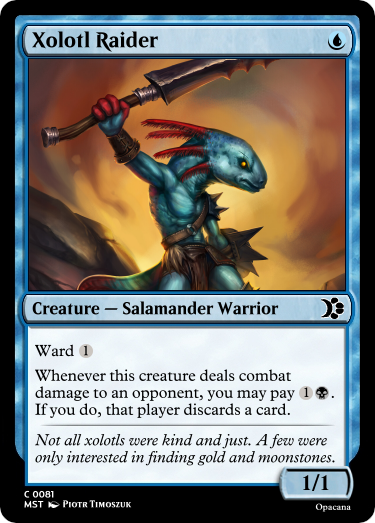
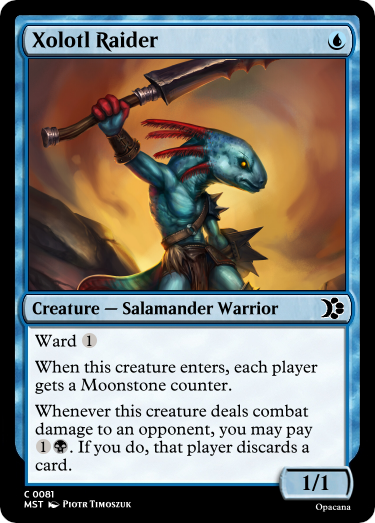
April13th2026Update

Changed region(s): [[0.088, 0.6424, 0.88, 0.9178]]

diff --git a/previews/MST.html b/previews/MST.html
@@ -277,12 +277,12 @@
 				<div class="container"><img loading="lazy" alt="sets\MST-files\img\110_Nourishing Misery.png" id="MST_110_Nourishing Misery" data-flag="@X" onclick="openSidebar('MST_110_Nourishing Misery',false)"></div>
 				<div class="container"><img loading="lazy" alt="sets\MST-files\img\143_In the Presence of Greatness.png" id="MST_143_In the Presence of Greatness" data-flag="@X" onclick="openSidebar('MST_143_In the Presence of Greatness',false)"></div>
 				<div class="container"><img loading="lazy" alt="sets\MST-files\img\190_Seeker of Strength.png" id="MST_190_Seeker of Strength" data-flag="@X" onclick="openSidebar('MST_190_Seeker of Strength',false)"></div>
-				<div class="container"><img loading="lazy" alt="sets\MST-files\img\27_Rest in Peace.png" id="MST_27_Rest in Peace" data-flag="@X" onclick="openSidebar('MST_27_Rest in Peace',false)"></div>
+				<div class="container"><img loading="lazy" alt="sets\MST-files\img\30_Rouser Elder.png" id="MST_30_Rouser Elder" data-flag="@X" onclick="openSidebar('MST_30_Rouser Elder',false)"></div>
 				<div class="container"><img loading="lazy" alt="sets\MST-files\img\72_Supercell Channeler.png" id="MST_72_Supercell Channeler" data-flag="@X" onclick="openSidebar('MST_72_Supercell Channeler',false)"></div>
 				<div class="container"><img loading="lazy" alt="sets\MST-files\img\113_Power from Pain.png" id="MST_113_Power from Pain" data-flag="@X" onclick="openSidebar('MST_113_Power from Pain',false)"></div>
 				<div class="container"><img loading="lazy" alt="sets\MST-files\img\146_Longsight Siege Brother.png" id="MST_146_Longsight Siege Brother" data-flag="@X" onclick="openSidebar('MST_146_Longsight Siege Brother',false)"></div>
 				<div class="container"><img loading="lazy" alt="sets\MST-files\img\195_Starshine Charms.png" id="MST_195_Starshine Charms" data-flag="@X" onclick="openSidebar('MST_195_Starshine Charms',false)"></div>
-				<div class="container"><img loading="lazy" alt="sets\MST-files\img\31_Rouser Elder.png" id="MST_31_Rouser Elder" data-flag="@X" onclick="openSidebar('MST_31_Rouser Elder',false)"></div>
+				<div class="container"><img loading="lazy" alt="sets\MST-files\img\31_Ruminations Over Rubble.png" id="MST_31_Ruminations Over Rubble" data-flag="@X" onclick="openSidebar('MST_31_Ruminations Over Rubble',false)"></div>
 				<div class="container"><img loading="lazy" alt="sets\MST-files\img\74_Titanic Rudan.png" id="MST_74_Titanic Rudan" data-flag="@X" onclick="openSidebar('MST_74_Titanic Rudan',false)"></div>
 				<div class="container"><img loading="lazy" alt="sets\MST-files\img\116_Return to Instinct.png" id="MST_116_Return to Instinct" data-flag="@X" onclick="openSidebar('MST_116_Return to Instinct',false)"></div>
 				<div class="container"><img loading="lazy" alt="sets\MST-files\img\148_Moonrise Bravado.png" id="MST_148_Moonrise Bravado" data-flag="@X" onclick="openSidebar('MST_148_Moonrise Bravado',false)"></div>
@@ -327,12 +327,12 @@
 				<div class="container"><img loading="lazy" alt="sets\MST-files\img\99_Hermit of Erud Swamp.png" id="MST_99_Hermit of Erud Swamp" data-flag="@X" onclick="openSidebar('MST_99_Hermit of Erud Swamp',false)"></div>
 				<div class="container"><img loading="lazy" alt="sets\MST-files\img\151_Phoenix Mantle.png" id="MST_151_Phoenix Mantle" data-flag="@X" onclick="openSidebar('MST_151_Phoenix Mantle',false)"></div>
 				<div class="container"><img loading="lazy" alt="sets\MST-files\img\182_The Life of an Epicure.png" id="MST_182_The Life of an Epicure" data-flag="@X" onclick="openSidebar('MST_182_The Life of an Epicure',false)"></div>
-				<div class="container"><img loading="lazy" alt="sets\MST-files\img\28_Rewoven Fates.png" id="MST_28_Rewoven Fates" data-flag="@X" onclick="openSidebar('MST_28_Rewoven Fates',false)"></div>
+				<div class="container"><img loading="lazy" alt="sets\MST-files\img\27_Rewoven Fates.png" id="MST_27_Rewoven Fates" data-flag="@X" onclick="openSidebar('MST_27_Rewoven Fates',false)"></div>
 				<div class="container"><img loading="lazy" alt="sets\MST-files\img\70_Stormwind Master.png" id="MST_70_Stormwind Master" data-flag="@X" onclick="openSidebar('MST_70_Stormwind Master',false)"></div>
 				<div class="container"><img loading="lazy" alt="sets\MST-files\img\103_Iron Empire Elite.png" id="MST_103_Iron Empire Elite" data-flag="@X" onclick="openSidebar('MST_103_Iron Empire Elite',false)"></div>
 				<div class="container"><img loading="lazy" alt="sets\MST-files\img\153_Priest of Primordial Fire.png" id="MST_153_Priest of Primordial Fire" data-flag="@X" onclick="openSidebar('MST_153_Priest of Primordial Fire',false)"></div>
 				<div class="container"><img loading="lazy" alt="sets\MST-files\img\184_Matriarch of Ancient Ways.png" id="MST_184_Matriarch of Ancient Ways" data-flag="@X" onclick="openSidebar('MST_184_Matriarch of Ancient Ways',false)"></div>
-				<div class="container"><img loading="lazy" alt="sets\MST-files\img\30_Rooftop Pouncer.png" id="MST_30_Rooftop Pouncer" data-flag="@X" onclick="openSidebar('MST_30_Rooftop Pouncer',false)"></div>
+				<div class="container"><img loading="lazy" alt="sets\MST-files\img\29_Rooftop Pouncer.png" id="MST_29_Rooftop Pouncer" data-flag="@X" onclick="openSidebar('MST_29_Rooftop Pouncer',false)"></div>
 				<div class="container"><img loading="lazy" alt="sets\MST-files\img\71_Summon the Soulchasers.png" id="MST_71_Summon the Soulchasers" data-flag="@X" onclick="openSidebar('MST_71_Summon the Soulchasers',false)"></div>
 				<div class="container"><img loading="lazy" alt="sets\MST-files\img\108_Necromancer's Whim.png" id="MST_108_Necromancers Whim" data-flag="@X" onclick="openSidebar('MST_108_Necromancers Whim',false)"></div>
 				<div class="container"><img loading="lazy" alt="sets\MST-files\img\154_Psychic Enslavement.png" id="MST_154_Psychic Enslavement" data-flag="@X" onclick="openSidebar('MST_154_Psychic Enslavement',false)"></div>
@@ -417,7 +417,7 @@
 				<div class="container"><img loading="lazy" alt="sets\MST-files\img\107_Moonwarped Beast.png" id="MST_107_Moonwarped Beast" data-flag="@X" onclick="openSidebar('MST_107_Moonwarped Beast',false)"></div>
 				<div class="container"><img loading="lazy" alt="sets\MST-files\img\149_Mountain Miner.png" id="MST_149_Mountain Miner" data-flag="@X" onclick="openSidebar('MST_149_Mountain Miner',false)"></div>
 				<div class="container"><img loading="lazy" alt="sets\MST-files\img\192_Sika Matriarch.png" id="MST_192_Sika Matriarch" data-flag="@X" onclick="openSidebar('MST_192_Sika Matriarch',false)"></div>
-				<div class="container"><img loading="lazy" alt="sets\MST-files\img\29_Ring of Assurance.png" id="MST_29_Ring of Assurance" data-flag="@X" onclick="openSidebar('MST_29_Ring of Assurance',false)"></div>
+				<div class="container"><img loading="lazy" alt="sets\MST-files\img\28_Ring of Assurance.png" id="MST_28_Ring of Assurance" data-flag="@X" onclick="openSidebar('MST_28_Ring of Assurance',false)"></div>
 				<div class="container"><img loading="lazy" alt="sets\MST-files\img\67_Selaki Stormrider.png" id="MST_67_Selaki Stormrider" data-flag="@X" onclick="openSidebar('MST_67_Selaki Stormrider',false)"></div>
 				<div class="container"><img loading="lazy" alt="sets\MST-files\img\112_Play Dead.png" id="MST_112_Play Dead" data-flag="@X" onclick="openSidebar('MST_112_Play Dead',false)"></div>
 				<div class="container"><img loading="lazy" alt="sets\MST-files\img\152_Prepared Fortress Guard.png" id="MST_152_Prepared Fortress Guard" data-flag="@X" onclick="openSidebar('MST_152_Prepared Fortress Guard',false)"></div>
